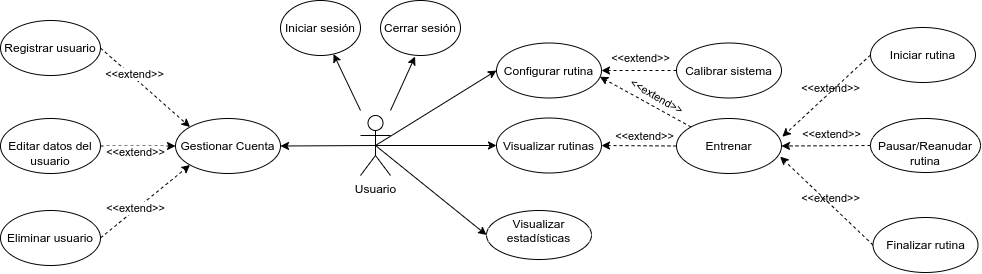
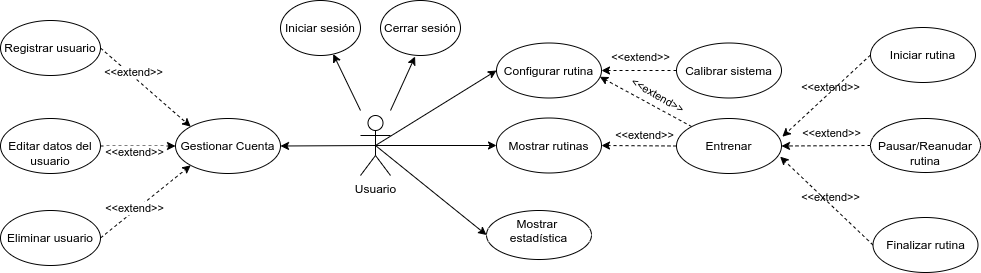
Release version 1.0

diff --git a/document/main/chapter3/section4/content.tex b/document/main/chapter3/section4/content.tex
@@ -71,14 +71,14 @@ La prueba de caja negra para la funcionalidad de inicio de sesión se llevó a c
 
 % SUBSECTION 2
 \subsubthesischapter{Encuesta a especialistas sobre la percepción del sistema}
-Para la evaluación de los requisitos no funcionales usabilidad e interoperabilidad, además de los evaluados por \cite{franco2016sistema} (ergonomía, seguridad y concordancia de los ejercicios con los de la terapia tradicional) fue aplicada una encuesta a 10 profesionales del área de la investigación, 4 de ellos doctores en ciencia, 3 ingenieros (entre ellos 1 informático, 1 ingeniero de control automático y 1 biomédico) especialistas en desarrollo en el tema de la rehabilitación y 3 especialistas del área médica. Todos con más de 5 años de experiencia. Los resultados de dicha encuesta se presentan agrupados en una escala dicotómica en la Tabla \ref{table:test}.
+Para la evaluación de los requisitos no funcionales usabilidad, interoperabilidad, además de los evaluados por \cite{franco2016sistema} (ergonomía, seguridad y concordancia de los ejercicios con los de la terapia tradicional) fue aplicada una encuesta a 10 profesionales del área de la investigación, 4 de ellos doctores en ciencia, 3 ingenieros (entre ellos 1 informático, 1 ingeniero de control automático y 1 biomédico) especialistas en desarrollo en el tema de la rehabilitación y 3 especialistas del área médica. Todos con más de 5 años de experiencia. Los resultados de dicha encuesta se presentan agrupados en una escala dicotómica en la Tabla \ref{table:test}.
 
 \begin{table}[ht]
     \centering
     \begin{tabular}{p{3cm} c c c c}
         \hline
         Característica      &  Alto(\#/Total)   &  Alto(\%) & Bajo(\#/Total)  & Bajo(\%) \\\hline
-        Usabilidad          &  7/10   &  70   & 3/10  &   30\\
+        Usabilidad          &  10/10  &  100  & 0/10  &   0\\
         Interoperabilidad   &  8/10   &  80   & 2/10  &   20\\
         Ergonomía           &  10/10  &  100  & 0/10  &   0\\
         Concordancia        &  8/10   &  80   & 2/10  &   20\\
@@ -91,7 +91,7 @@ Para la evaluación de los requisitos no funcionales usabilidad e interoperabili
 
 Dichos resultados siguen el patrón lógico esperado:
 \begin{itemize}
-    \item \textbf{Usabilidad (70\% de satisfacción alta):} Un alto nivel de usabilidad significa que los profesionales evaluados encontraron el juego serio fácil de usar y comprender. Esto indica que la interfaz y las interacciones del juego son intuitivas, lo que facilita su adopción por parte de los usuarios.
+    \item \textbf{Usabilidad (100\% de satisfacción alta):} Un alto nivel de usabilidad significa que los profesionales evaluados encontraron el juego serio fácil de usar y comprender. Esto indica que la interfaz y las interacciones del juego son intuitivas, lo que facilita su adopción por parte de los usuarios.
     
     La facilidad de uso es fundamental para los pacientes de neurorrehabilitación, especialmente para aquellos que pueden tener limitaciones cognitivas o motoras. Un juego fácil de entender y jugar fomenta la participación y la adherencia al programa de rehabilitación.
 
@@ -114,4 +114,4 @@ Las observaciones generales proporcionadas por los especialistas, permitieron id
 
 Por otra parte, teniendo en cuenta que el sistema de adquisición de datos no es invasivo y, por el contrario, presentó aceptación por parte de los especialistas por incluir un videojuego, se propone, en un futuro, realizar pruebas a un número determinado de pacientes víctimas de ACV y de esta manera evaluar el funcionamiento del sistema de adquisición de datos durante ejercicios de rehabilitación resistida y activa-asistida, en los que el paciente moverá los pedales continuamente y realizará por su propia acción o con ayuda de especialista los ejercicios establecidos. Adicionalmente, se valida que el sistema no es exclusivo para rehabilitación de personas víctimas de ACV, por lo tanto se plantea que en un trabajo futuro se podrá probar dicha aplicación en la modalidad ligero, por ejemplo, con deportistas de alto rendimiento con lesiones deportivas.
 
-Si bien se recibieron comentarios  positivos otros también fueron negativos respecto a la usabilidad y la concordancia, requisitos estrechamente relacionados en el juego serio. En ambos se encontró como déficit el no cubrir toda la gama de ejercicios definidos en las rutinas de rehabilitación siendo propuestos para futuras versiones la inclusión de las modalidades resistida y activo-asistida con el fin de complementar los ejercicios de rehabilitación que se pueden realizar actualmente con el sistema de adquisición de datos, los cuales son solamente ejercicios de rehabilitación libre.
+Si bien se recibieron comentarios  positivos otros también fueron negativos respecto a la concordancia, requisito estrechamente relacionado en el juego serio. En este caso se encontró como debilidad el no cubrir toda la gama de ejercicios definidos en las rutinas de rehabilitación, siendo propuestos para futuras versiones la inclusión de las modalidades resistida y activo-asistida con el fin de complementar los ejercicios de rehabilitación que se pueden realizar actualmente con el sistema de adquisición de datos, los cuales son solamente ejercicios de rehabilitación libre.

diff --git a/document/main/introduction.tex b/document/main/introduction.tex
@@ -16,10 +16,10 @@
 
     Esta integración innovadora no solo transforma la experiencia de rehabilitación de los pacientes, sino que también propone tener un impacto significativo en los resultados a largo plazo, mejorando la calidad de vida y promoviendo una recuperación más efectiva para individuos afectados por enfermedades como las cerebrovasculares.
 
-    Lo antes expuesto nos guía al problema de investigación: La insuficiencia en el uso de la tecnologías de la información y las comunicación para la rehabilitación  de pacientes con enfermedades cerebrovasculares.  
+    Lo antes expuesto nos guía al problema de investigación: Insuficiente uso de las tecnologías de software integrada a un sistema de rehabilitación con pedal motorizado para pacientes con enfermedades cerebrovasculares.  
     %¿Cómo puede la aplicación de juego serio integrada a un sistema de rehabilitación neuromuscular con pedal motorizado beneficiar a los pacientes con enfermedades cerebrovasculares?
 
-    Para dar solución al problema se plantea como objetivo general el desarrollo de una aplicación de juego serio integrada a un sistema de rehabilitación neuromuscular con pedal motorizado para la rehabilitación de pacientes con enfermedades cerebrovasculares.
+    Para dar solución al problema se plantea como \textbf{objetivo general} el desarrollo de una aplicación de juego serio integrada a un sistema de rehabilitación neuromuscular con pedal motorizado para la rehabilitación de pacientes con enfermedades cerebrovasculares.
     
     Para el logro del objetivo general, se requiere el cumplimiento de los siguientes objetivos específicos:
 
@@ -33,9 +33,13 @@
         \item Validación de los requisitos funcionales y no funcionales del sistema.
     \end{itemize}
 
-    La hipótesis sustentada en este trabajo es la siguiente:
+    \textbf{Objeto de estudio}: Tecnologías de software integrada a un sistema de rehabilitación con pedal motorizado.
+
+    \textbf{Campo de acción}: Los juegos serios.
+
+    La \textbf{hipótesis} sustentada en este trabajo es la siguiente:
 
     Si se desarrolla una aplicación de juego serio integrada a un sistema de rehabilitación neuromuscular con pedal motorizado para pacientes con enfermedades cerebrovasculares se contribuirá a la adherencia del tratamiento brindando: retroalimentación inmediata sobre el rendimiento, estimulación de las habilidades tanto motoras como cognitivas, personalización del tratamiento según las necesidades individuales, monitoreo del progreso del paciente, reducción del estrés y la ansiedad asociados con la rehabilitación, y el fomento de la socialización entre los pacientes.
 
-    En el desarrollo de este proyecto fueron empleados métodos de investigación que permitieron el cumplimiento de los objetivos y las tareas desarrolladas. El método análisis-síntesis permitió la extracción del conjunto de conocimientos que fundamentan la investigación y de las contribuciones de los sistemas de rehabilitación que actualmente se comercializan y/o desarrollan al diseño de la aplicación. El método inductivo-deductivo se puso de manifiesto en toda la programación del código tras la arquitectura de la aplicación del juego serio. El método hipotético-deductivo en relación con el método de observación (método empírico), permitió verificar la hipótesis planteada en cada tarea a implementar. La entrevista a especialistas en terapia rehabilitación, posibilitó la adquisición de la información relacionada con los requerimientos para el diseño del software.
+    En el desarrollo de este proyecto fueron empleados \textbf{métodos de investigación} que permitieron el cumplimiento de los objetivos y las tareas desarrolladas. El método análisis-síntesis permitió la extracción del conjunto de conocimientos que fundamentan la investigación y de las contribuciones de los sistemas de rehabilitación que actualmente se comercializan y/o desarrollan al diseño de la aplicación. El método inductivo-deductivo se puso de manifiesto en toda la programación del código tras la arquitectura de la aplicación del juego serio. El método hipotético-deductivo en relación con el método de observación (método empírico), permitió verificar la hipótesis planteada en cada tarea a implementar. La entrevista a especialistas en terapia rehabilitación, posibilitó la adquisición de la información relacionada con los requerimientos para el diseño del software.
 \end{introduction}

diff --git a/document/main/chapter2/section3/content.tex b/document/main/chapter2/section3/content.tex
@@ -41,18 +41,18 @@ Cada forma en que los actores usan el sistema se representa con un caso de uso, 
         Iniciar sesión & Permite al usuario acceder al sistema & RF1\\\hline
         Cerrar sesión & Permite al usuario cerrar sesión en el sistema & RF2\\\hline
         Registrar usuario & Permite guardar los datos de un usuario en la base de datos & RF3\\\hline
-        Eliminar usuario & Permite eliminar la cuenta de un usuario en la base de datos & RF4\\\hline
+        Eliminar usuario & Permite eliminar los datos de un usuario en la base de datos & RF4\\\hline
         Editar datos del usuario & Permite actualizar los datos del usuario en la base de datos & RF5\\\hline
         Gestionar cuenta  & Se extiende de los casos de uso registrar usuario, eliminar usuario y editar datos del usuario & RF3, RF4, RF5 \\\hline
         Transferir datos & Permite enviar o recibir datos entre el juego serio y el pedal motorizado & RF6, RF7\\\hline
-        Comunicar con pedal & Permite establecer la comunicación entre el juego serio y el pedal motorizado & RF8, RF9\\\hline
+        Comunicar con pedal & Permite establecer o finalizar la comunicación entre la aplicación y el pedal motorizado & RF8, RF9\\\hline
         Configurar rutina & Permite elegir la modalidad e insertar los parámetros de la rutina  & RF10\\\hline
         Iniciar rutina & Permite dar inicio a la rutina de entrenamiento & RF11\\\hline
         Pausar/Reanudar rutina & Permite pausar la etapa actual de la rutina & RF12\\\hline
         Finalizar rutina & Permite dar fin a la rutina de entrenamiento & RF13\\\hline
         Entrenar & Se extiende de los casos de uso  iniciar rutina, pausar/reanudar rutina, finalizar rutina&RF11,RF12,RF13\\\hline
-        Mostrar rutina & Permite visualizar una rutina de entrenamiento configurada anteriormente &RF14\\\hline
-        Visualizar estadística & Permite mostrar estadísticas de las rutinas & RF15\\\hline
+        Mostrar rutinas & Permite visualizar una rutina de entrenamiento configurada anteriormente &RF14\\\hline
+        Mostrar estadística & Permite mostrar estadísticas de las rutinas & RF15\\\hline
         Calibrar sistema & Permite iniciar la calibración para la modalidad clínica  & RF16\\\hline
         Guardar logs & Permite almacenar los hechos ocurridos en el sistema & RF17\\\hline
         Mostrar notificaciones & Permite notificar sobre cualquier error en la aplicación & RF18\\\hline

diff --git a/document/front/resumen.tex b/document/front/resumen.tex
@@ -6,4 +6,6 @@ El propósito principal de este estudio es el desarrollo de una aplicación de j
 La implementación de este enfoque requirió una fase inicial de análisis del estado del arte en las tecnologías de rehabilitación clínica y de juego serio. Este análisis sirvió como fundamento para la definición de los requisitos funcionales y no funcionales esenciales para el desarrollo del sistema, teniendo en cuenta además las funcionalidades proporcionadas por el pedal motorizado. En colaboración con expertos en el campo, se diseñaron rutinas de juegos destinadas a potenciar capacidades físicas clave como fuerza, resistencia y velocidad, seleccionando las rutinas de tipo Libre para la versión inicial de la aplicación. La integración de los datos recopilados por el pedal con la aplicación se logró mediante el desarrollo de un modelo cliente-servidor de red y simultáneamente, se diseñó una base de datos para supervisar el desarrollo del proceso de rehabilitación y controlar los datos del paciente.
 
 En términos de evaluación, se exponen la estrategia de pruebas empleadas tanto para los requisitos funcionales como los no funcionales del software y un análisis económico-social que demuestra los beneficios que la aplicación de juego serio integrada a un sistema de rehabilitación neuromuscular con pedal motorizado aporta a los pacientes afectados por enfermedades cerebrovasculares.
+
+\textbf{Palabras claves}: juegos serio, accidentes cerebrovasculares, sistema de rehabilitación, tecnologías de rehabilitación.
 \end{resumen}

diff --git a/document/front/abstract.tex b/document/front/abstract.tex
@@ -6,4 +6,6 @@ The main purpose of this study is the development of a serious game application 
 Implementation of this approach required an initial phase of analysis of the state of the art in clinical rehabilitation and serious play technologies. This analysis served as the foundation for the definition of the functional and non-functional requirements essential for the development of the system, also taking into account the functionalities provided by the motorized pedal. In collaboration with experts in the field, game routines aimed at enhancing key physical capabilities such as strength, endurance and speed were designed, selecting Free-type routines for the initial version of the application. The integration of the data collected by the pedal with the application was achieved through the development of a network client-server model and simultaneously, a database was designed to monitor the development of the rehabilitation process and control patient data.
 
 In terms of evaluation, the testing strategy employed for both functional and non-functional requirements of the software and a social-economic analysis demonstrating the benefits that the application of serious gaming integrated to a neuromuscular rehabilitation system with motorized pedal brings to patients affected by cerebrovascular diseases are presented.
+
+\textbf{Key words}: serious games, stroke, rehabilitation system, rehabilitation technologies.
 \end{abstract}

diff --git a/document/main/chapter2/section4/content.tex b/document/main/chapter2/section4/content.tex
@@ -1,5 +1,5 @@
 \subthesischapter{Realización de los casos de uso}
-La realización de los casos de uso en el análisis es una colaboración que describe cómo se lleva a cabo y ejecuta un caso de uso determinado en término de las clases del análisis y de sus objetos en interacción, por lo tanto, se centra en los requisitos funcionales. A continuación se describe el caso de uso de mayor relevancia.
+La realización de los casos de uso en el análisis es una colaboración que describe cómo se lleva a cabo y ejecuta un caso de uso determinado en término de las clases del análisis y de sus objetos en interacción, por lo tanto, se centra en los requisitos funcionales. Los casos de usos del sistema se encuentran descrito en el Manual de Casos de Uso~\cite{casosdeuso}.A continuación se describe el caso de uso de mayor relevancia.
 
 \begin{table}
     \vspace*{-60pt}
@@ -70,7 +70,7 @@ La realización de los casos de uso en el análisis es una colaboración que des
         4. El sistema construye la interfaz con los parámetros generales de la modalidad seleccionada, (ver Figura \ref{annex: 3}(b)). \\\hline
         5. El usuario inserta los valores de distancia, tiempo y porciento de MCV según la dificultad del entrenamiento que desee y la calibración obtenida. 
         
-        7. Termina el CU. 
+        6. Termina el CU. 
         &\\\hline
     \end{tabularx}
     \caption{Descripción del CU: Configurar rutina.}

diff --git a/document/main/chapter2/section5/content.tex b/document/main/chapter2/section5/content.tex
@@ -16,7 +16,7 @@ Desde la especificación listada anteriormente se comienzan a
 identificar los conjuntos de entidades y relaciones, así como sus atributos:
 \begin{itemize}
     \item La entidad \underline{usuario}, con los atributos id\_usuario, nombre, correo, contraseña.
-    \item La entidad \underline{rutina} con los atributos id\_rutina, modalidad, distancia, tiempo, \textbf{mcv\textsubscript{0}, mcv\textsubscript{1}, mcv\textsubscript{2}, mcv\textsubscript{3}}\footnote{mcv\textsubscript{i}: Valor porcentual definido de MCV en el canal i luego de la etapa de calibración.}.
+    \item La entidad \underline{rutina} con los atributos id\_rutina, modalidad, distancia, tiempo, \textbf{mcv\textsubscript{1}, mcv\textsubscript{2}, mcv\textsubscript{3}, mcv\textsubscript{4}}\footnote{mcv\textsubscript{i}: Valor porcentual definido de MCV en el canal i luego de la etapa de calibración.}.
     \item La relación muchos a muchos de \underline{usuario} a \underline{rutinas} denominado \underline{ejecuta}, es decir un usuario puede ejecutar 
     varias rutinas y la misma rutina puede ser ejecutada por distintos usuarios. Dicha relación cuenta con los atributos velocidad, mcv\_promedio y fecha\_de\_ejecución. 
 \end{itemize}

diff --git a/document/main/chapter1/section2/content.tex b/document/main/chapter1/section2/content.tex
@@ -7,7 +7,7 @@ Según ~\cite{moyano2020arquitectura} la arquitectura cliente - servidor, es un 
     \item Servidor: Es un programa que ofrece un servicio que se puede obtener en una red. Acepta la petición desde la red, realiza el servicio y devuelve el resultado al solicitante. Al ser posible implantarlo como aplicaciones de programas, puede ejecutarse en cualquier sistema donde exista TCP/IP y junto con otros programas de aplicación. El servidor comienza su ejecución antes de comenzar la interacción con el cliente.
 \end{itemize}
 
-\subsubthesischapter{Modelo Vista Controlador}
+\subsubthesischapter{Arquitectura Modelo-Vista-Controlador}
  El Modelo Vista Controlador (MVC), es un patrón en el diseño de software comúnmente utilizado para implementar interfaces de usuario, datos y lógica de control. Enfatiza una separación entre la lógica de negocios y su visualización. Esta "separación de preocupaciones" proporciona una mejor división del trabajo y una mejora de mantenimiento~\cite{MVCGlosa42}. 
 \begin{enumerate}
     \item Modelo: Maneja datos y lógica de negocios.

diff --git a/document/main/chapter1/section4/content.tex b/document/main/chapter1/section4/content.tex
@@ -29,7 +29,7 @@ Principales características de este motor gráfico que son de utilidad en el si
         Documentación               & Muy amplia                                                    & Escasa                                                          & Amplia                        & Limitada              & Amplia\\\hline
         Curva de aprendizaje        & Sencilla                                                      & Complicada                                                      & Media                         & Media                 & Media \\\hline
     \end{tabularx}
-    \caption{Comparación de motores gráficos en función de sus atributos \\ (Adaptado de~\cite{gonjar2019desarrollo})}
+    \caption{Comparación de motores gráficos en función de sus atributos \\ (Adaptado de~\cite{gonjar2019desarrollo}).}
     \label{tab: graphics-engines}
 \end{table}
 

diff --git a/document/main/chapter2/section2/content.tex b/document/main/chapter2/section2/content.tex
@@ -19,8 +19,8 @@ La integración de tecnologías de pedaleo en el campo de la rehabilitación neu
     \item Iniciar rutina.
     \item Pausar o reanudar el rutina.
     \item Finalizar rutina.
-    \item Mostrar rutina.
-    \item Mostrar estadísticas de rutina.
+    \item Mostrar rutinas.
+    \item Mostrar estadística de rutinas.
     \item Calibrar sistema.
     \item Guardar registro de comportamiento en archivo \textbf{logs}\footnote{Archivo de texto en el que constan cronológicamente los acontecimientos que han ido afectando a un sistema informático.}.
     \item Mostrar notificaciones.

diff --git a/document/main/chapter1/section1/content.tex b/document/main/chapter1/section1/content.tex
@@ -9,8 +9,7 @@ Los tipos y grados de discapacidad que siguen a un derrame dependen de qué áre
 \begin{figure}[ht]
     \centering
     \includegraphics[scale=0.5]{images/brain.jpg}
-    \caption{Áreas funcionales de la corteza cerebral.}
-    (Tomado de ~\cite{areacereabral})
+    \caption{Áreas funcionales de la corteza cerebral \\ (Tomado de ~\cite{areacereabral}).}
     \label{fig: cerebralcortex}
 \end{figure}
 

diff --git a/document/back/annexes3.tex b/document/back/annexes3.tex
@@ -1,0 +1,6 @@
+\begin{figure}[!ht]
+    \centering
+    \includegraphics[width=\textwidth, height=0.9\textheight]{images/annexes/poll.png}
+    \caption{Encuesta.}
+    \label{annex: poll}
+\end{figure}
